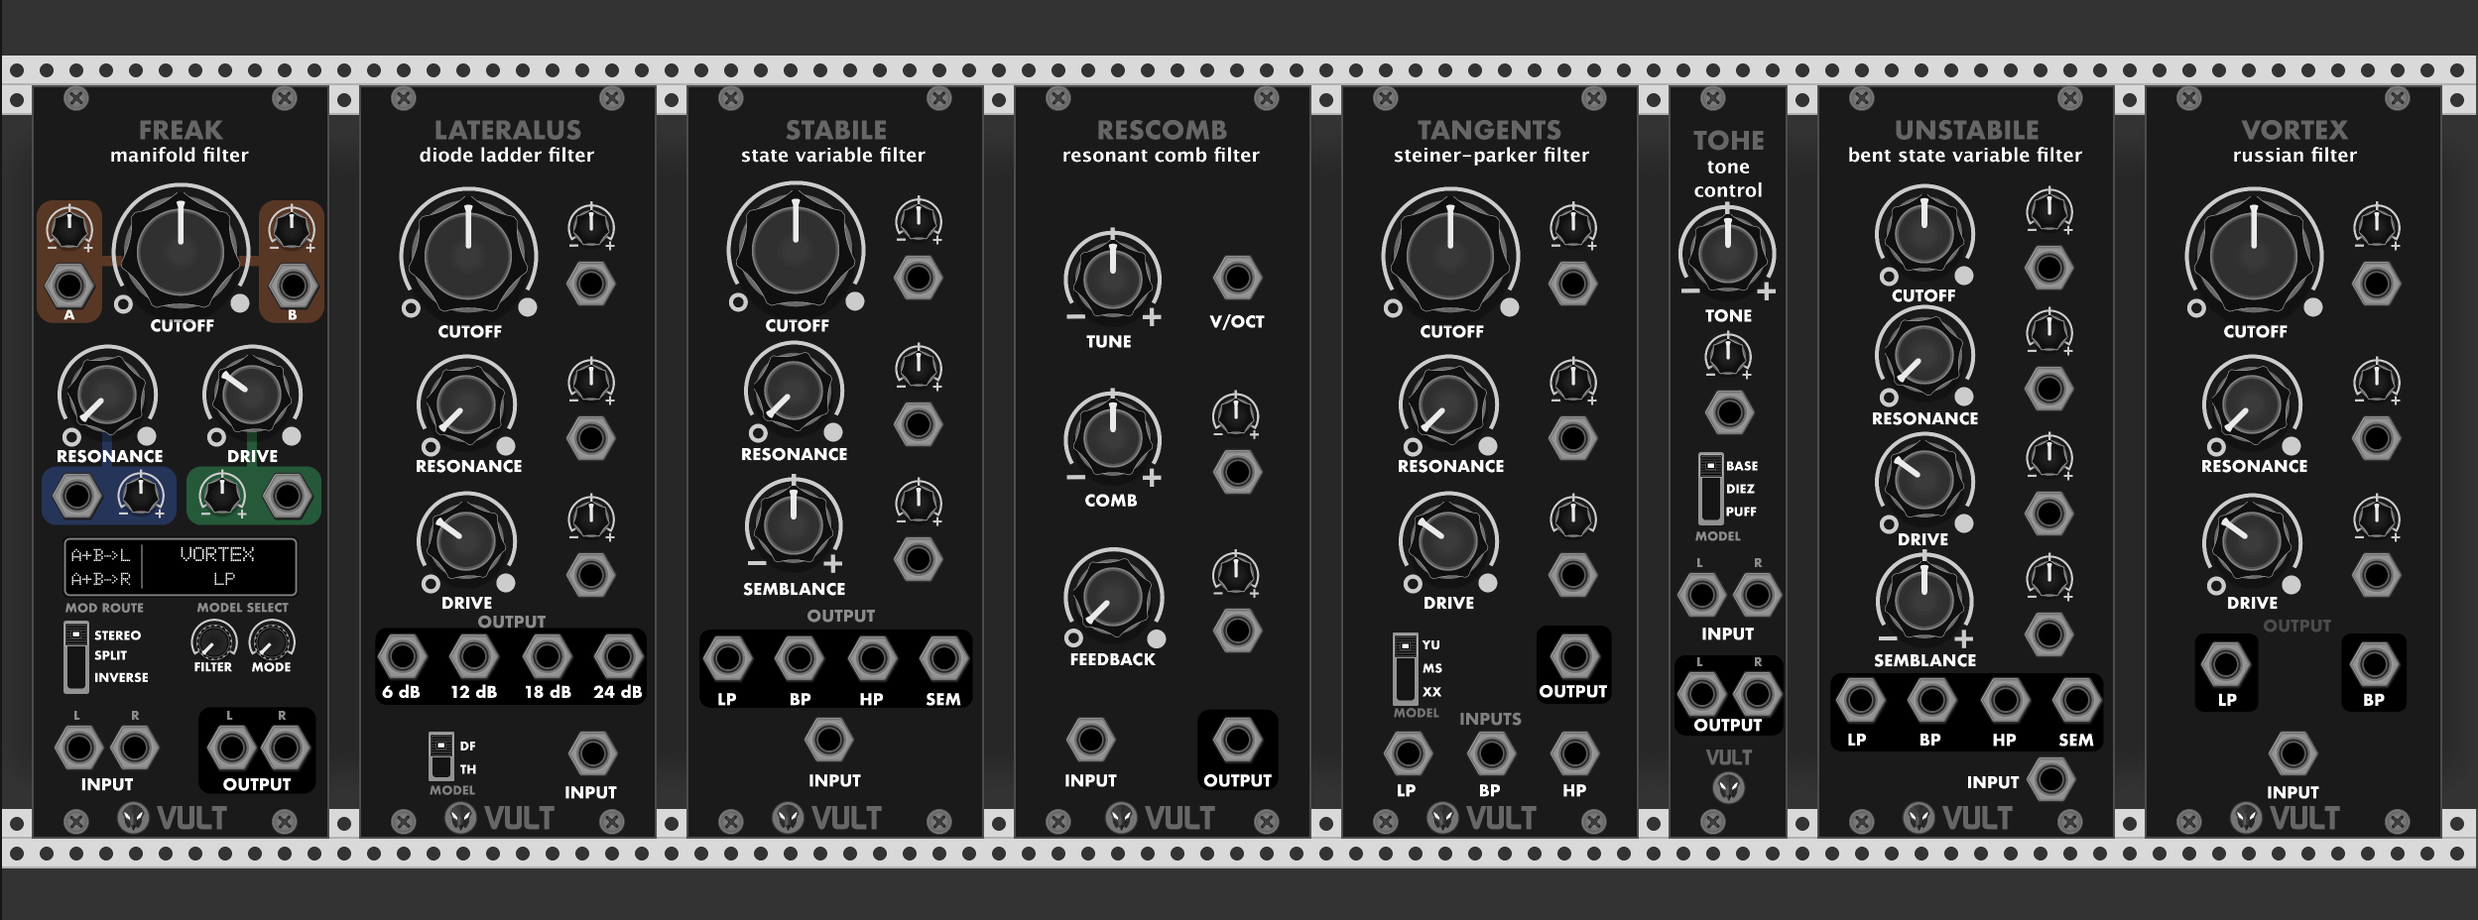
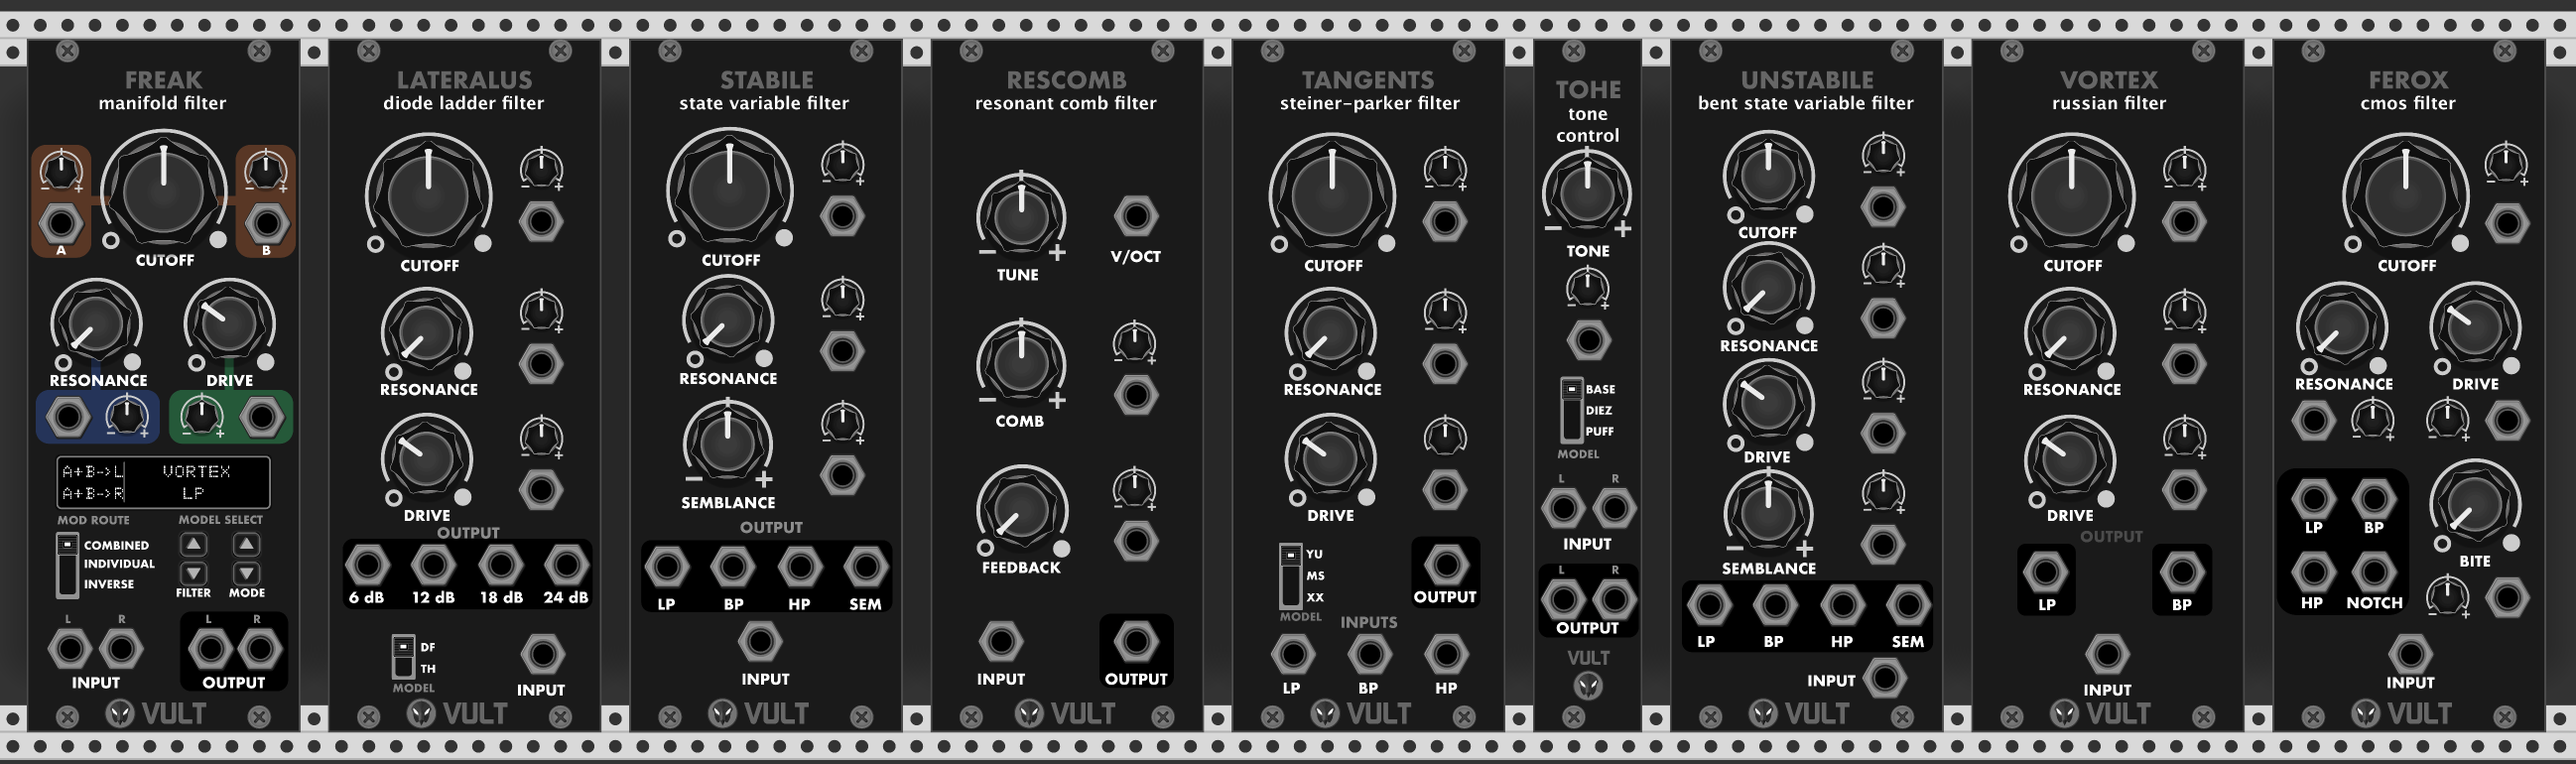
Adds Ferox page

diff --git a/themes/vultmodules/layouts/index.html b/themes/vultmodules/layouts/index.html
@@ -45,9 +45,11 @@
 
          <ul>
             <li>
-               <a href="https://modlfo.github.io/VultModules/freak/">Freak</a>: Manifold filter (all Vult filters in one).</li>
+               <a href="https://modlfo.github.io/VultModules/freak/">Freak</a>: Manifold Filter (all Vult filters in one).</li>
             <li>
-               <a href="https://modlfo.github.io/VultModules/lateralus/">Lateralus</a>: Diode ladder Filter.</li>
+               <a href="https://modlfo.github.io/VultModules/ferox/">Ferox</a>: CMOS Filter.</li>
+            <li>
+               <a href="https://modlfo.github.io/VultModules/lateralus/">Lateralus</a>: Diode Ladder Filter.</li>
             <li>
                <a href="https://modlfo.github.io/VultModules/vortex/">Vortex</a>: Russian Filter.</li>
             <li>

diff --git a/themes/vultmodules/layouts/partials/menu.html b/themes/vultmodules/layouts/partials/menu.html
@@ -6,6 +6,7 @@
       <a class="nav-link dropdown-toggle" data-toggle="dropdown" href="#" role="button" aria-haspopup="true" aria-expanded="false">Filters</a>
       <div class="dropdown-menu">
          <a class="dropdown-item" href="/freak">Freak</a>
+         <a class="dropdown-item" href="/ferox">Ferox</a>
          <a class="dropdown-item" href="/vortex">Vortex</a>
          <a class="dropdown-item" href="/tangents">Tangents</a>
          <a class="dropdown-item" href="/stabile">Stabile</a>

diff --git a/content/Ferox.md b/content/Ferox.md
@@ -1,0 +1,23 @@
++++
+title = "Ferox"
+date = "2018-05-21T08:57:13+03:00"
+image = "../images/Ferox.png"
+layout = "module"
++++
+
+<center>Included in:<img src="../images/VultModulesSticker.svg"> </center>
+
+Ferox is based on the ingenious CMOS filter design. The CMOS filter uses an digital inverter chip to replace operational amplifiers. The result filter full of character, distorted and aggressive. Ferox can transform the simplest waveforms into completely new sound. In some cases it will make you doubt that it is a filter at all.
+
+## Documentation
+
+- **Cutoff**: this is the main knob in a filter. It defines the frequency at which the filter starts taking action. Full left, the filter is completely closed. Full right it's open and should not have effect. The cutoff frequency can be controlled with a 1V/Oct signal through the included attenuverter.
+- **Resonance**: the resonance boost the frequencies near the cutoff frequency. Increase this knob and you will hear the personality of the filter. Ferox does not self-oscillate.
+- **Drive**: controls the amount of signal that enters to the filter. Increasing the drive will cause the filter to saturate which adds interesting harmonics to the sound.
+- **Bite**: acts as a post-distortion to the filter output. If you feel the filter is taking too many harmonics, this control will bring them back.
+- **Outputs**:
+   - **LP**: Low pass filter.
+   - **BP**: Band pass filter.
+   - **HP**: High pass filter.
+   - **NOTCH**: Notch filter
+- **Input**: Signal to be filtered or destroyed.

diff --git a/content/Freak.md b/content/Freak.md
@@ -25,6 +25,7 @@ The Freak! has advantages and disadvantages over the individual filters. For exa
    - Tangents-MS
    - Tangents-XX
    - Stabile-XX
+   - Ferox
 - **Mode**: selects the type of filter depending on the filter model
    - Band pass
    - Low pass
@@ -36,3 +37,7 @@ The Freak! has advantages and disadvantages over the individual filters. For exa
    - **Inverse**: (A-B->L, B-A->R). In this mode modulation the difference of modulation A and B is applied to the Left channel while the difference B minus A is applied to the Right. This mode produces very interesting results in the stereo field.
 - **Outputs**: Marked L and R for the stereo pair.
 - **Input**: Marked L and R for the stereo pair.
+
+## Videos
+
+<iframe width="560" height="315" src="https://www.youtube.com/embed/tDjI8RTydJU" frameborder="0" allow="autoplay; encrypted-media" allowfullscreen></iframe>

diff --git a/content/Knobs.md b/content/Knobs.md
@@ -16,7 +16,8 @@ Knobs contains two similar sections. Most of the elements in the interface are u
 
 - **Mode**: defines how the big knob behaves.
    - **Uni**: produces an unipolar signal ranging from 0V to 10V.
-   - **Bi**: produces an bipolar signal ranging from -5V to 5V.
+   - **Bip**: produces an bipolar signal ranging from -5V to 5V.
+   - **Mix**: the big knob acts as a master level control and all signals are added.
 - **(Big Knob)**: depending on the mode, it defines the offset voltage in the output.
 - **(Small knobs)**: these are attenuverters that control the amplitude of the input signal below.
 - **(Output Jack)**: outputs the combined signal: all inputs with it's corresponding attenuation plus the main offset defined by the Big Knob.
